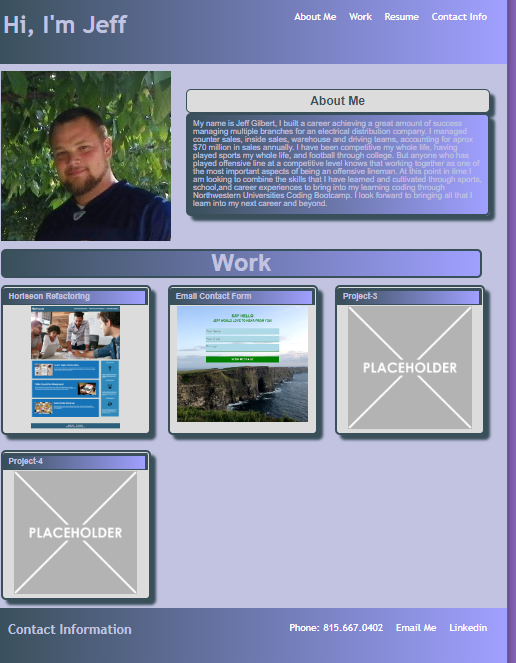
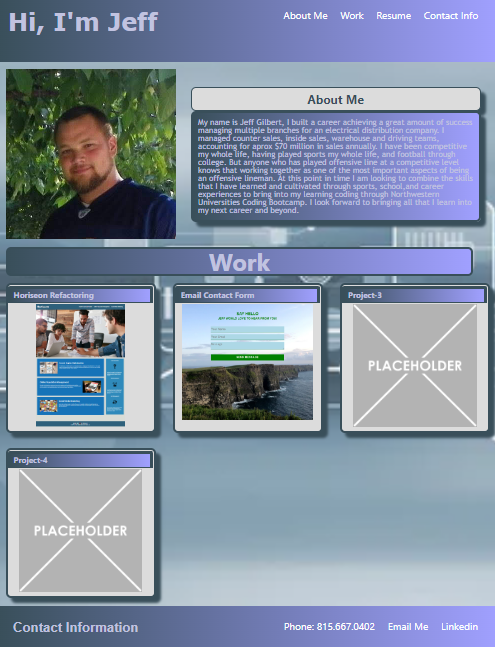
replaced screenshot image after font and background changes

diff --git a/assets/css/normalize.css b/assets/css/normalize.css
@@ -47,14 +47,16 @@ a {
     font-family: var(--font-anchor);
 }
 
-h2, .me, h3, h4{
+h2,
+.me,
+h3,
+h4 {
     font-family: var(--font-title);
 }
 
-.bio{
+.bio {
     font-family: var(--font-text);
 }
-
 
 .background {
     background-color: var(--grey200);
@@ -88,7 +90,7 @@ h1,
 h5 {
     display: inline-block;
     color: var(--grey200);
-    
+
     font-size: 48px;
     padding-top: var(--padding-medium);
     padding-bottom: var(--padding-small);
@@ -226,7 +228,7 @@ h3 {
 }
 
 h4 {
-    
+
     border-top-left-radius: 4px;
     border-top-right-radius: 4px;
     border-style: solid;
